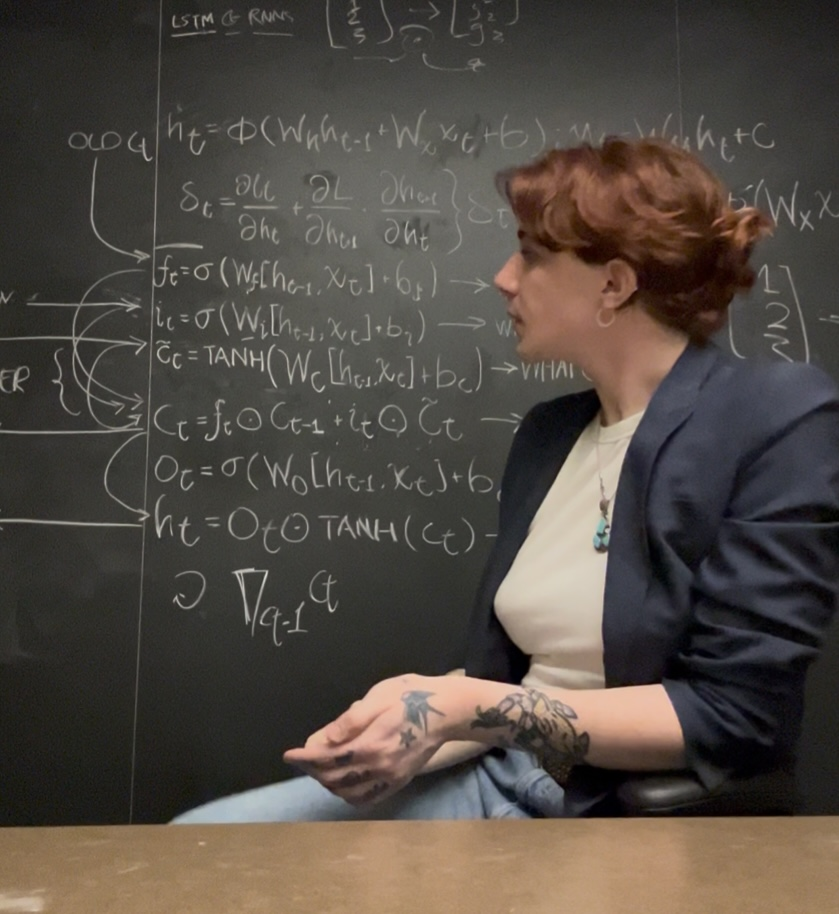
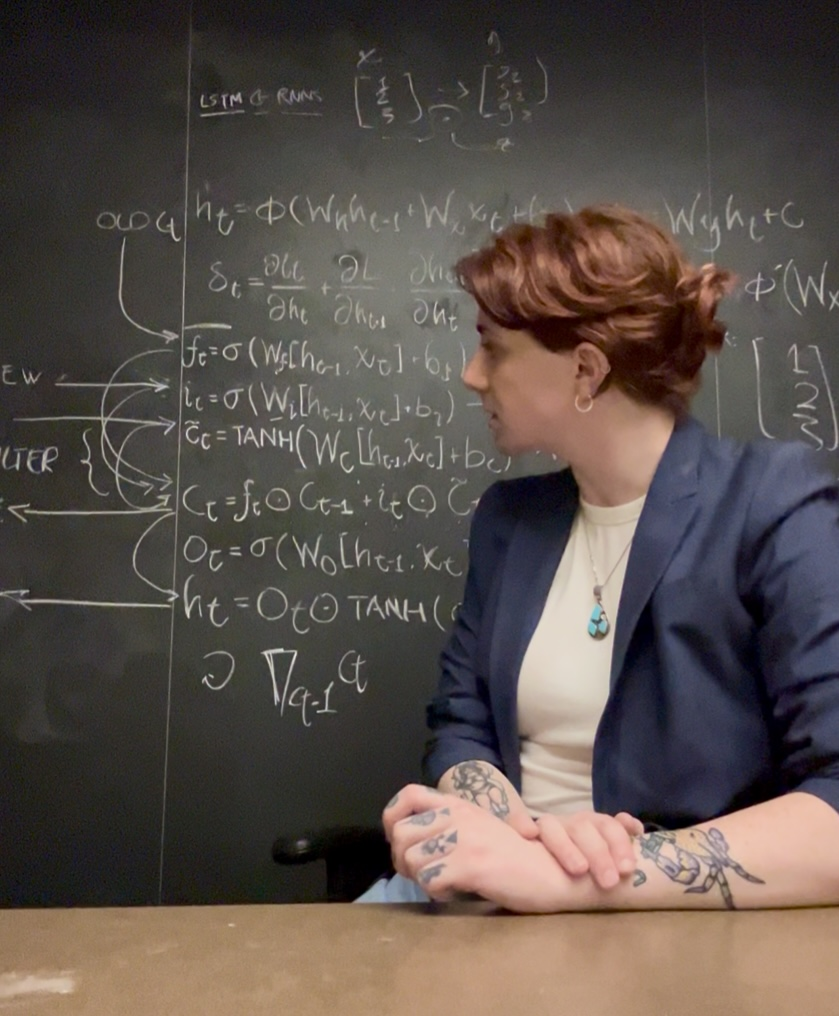
rephrase

diff --git a/docs/index.html b/docs/index.html
@@ -164,13 +164,12 @@ ul.task-list li input[type="checkbox"] {
 <blockquote class="blockquote">
 <p>“A beach is made of what is there.”</p>
 </blockquote>
-<p>— <strong>A long-forgotten Intro to Oceanography assigned reading</strong></p>
-<p><em>The black beaches of Hawai'i form from pulverized lava; the glass beaches of Fort bragg from old municipal garbage dumps; the beaches of Cape Cod from Laurentide sediments crushed by the stormy North Atlantic. And then again, the lava of Hawai'i comes bursting from the depths of the Earth, the glass of those Fort Bragg dumps from old kilns and factories, and the sediment of Cape Cod via glacier, countless miles southeast of its home. Each is a beach, yet each is distinct; a whole inseparable from its parts, while its parts are themselves the inseperable product of their parts. Nothing begins from nothing. We are all made, recursively, of what is there. <strong>Good science looks at the richness of what is there.</strong></em></p>
+<p>— <strong>A long forgotten Oceanography 101 assigned reading</strong></p>
+<p><em>The black beaches of Hawai'i form from pulverized lava; the glass beaches of Fort bragg, from old garbage dumps; the beaches of Cape Cod from Laurentide sediments crushed by the stormy North Atlantic. And then again, the lava of Hawai'i comes bursting from the depths of the Earth, the glass of Fort Bragg from old kilns and factories that melted sand, and the sediment of Cape Cod via glacier, countless miles southeast of its home. Each is a beach, yet each is distinct: a whole a product inseparable from its parts, while its parts are themselves wholes inseperable from what was there in their turn. We are all made, recursively, of what is there. <strong>Good science looks at the richness of what is there.</strong></em></p>
 </div>
 <section id="current-research" class="level2">
 <h2 class="anchored" data-anchor-id="current-research">Current Research</h2>
-<p>My current work at the Science and Humanity Lab seeks to identify a mechanistic, intuitive model that can explain observed trends in scientific productivity. Using computational Bayesian approaches over large data from the Academics Analytics Research Center and OpenAlex, I am pursuing a discrete sequential model that accurately and transparently simulates empirical data while remaining agnostic to indivdual difference. In doing so, I hope to begin to close the current mechanistic gap in science-of-science research.</p>
-<p>Independently, I use agentic and NLP-based methods to investigate the application and design of chains of causal inference in research and how they are used and misused across scientific disciplines. I also am pursuing appraisals of multilayer neural networks involving stochastic-gate LSTMs.</p>
+<p>My current work asks whether persistent differences in scientific productivity can emerge from parsimonious, history-dependent stochastic processes without requiring stable inherent differences among scholars. The work seeks to debunk the eugenicist, racist suggestions of William Shockley, the white, male Nobel laureate who felt science was too egalitarian for its rewards to be anything but representative of individual merit. Shockley suggested that scientific productivity was the probabilistic result of inherent, immutable, individual traits. As we develop a follow-up to <a href="https://arxiv.org/pdf/2309.04414">Scientific Productivity as a Random Walk</a>, we scientifically validate a long-overdue departure from Shockley’s notions.</p>
 <p><a href="./research.html">Read more about my research →</a></p>
 
 
